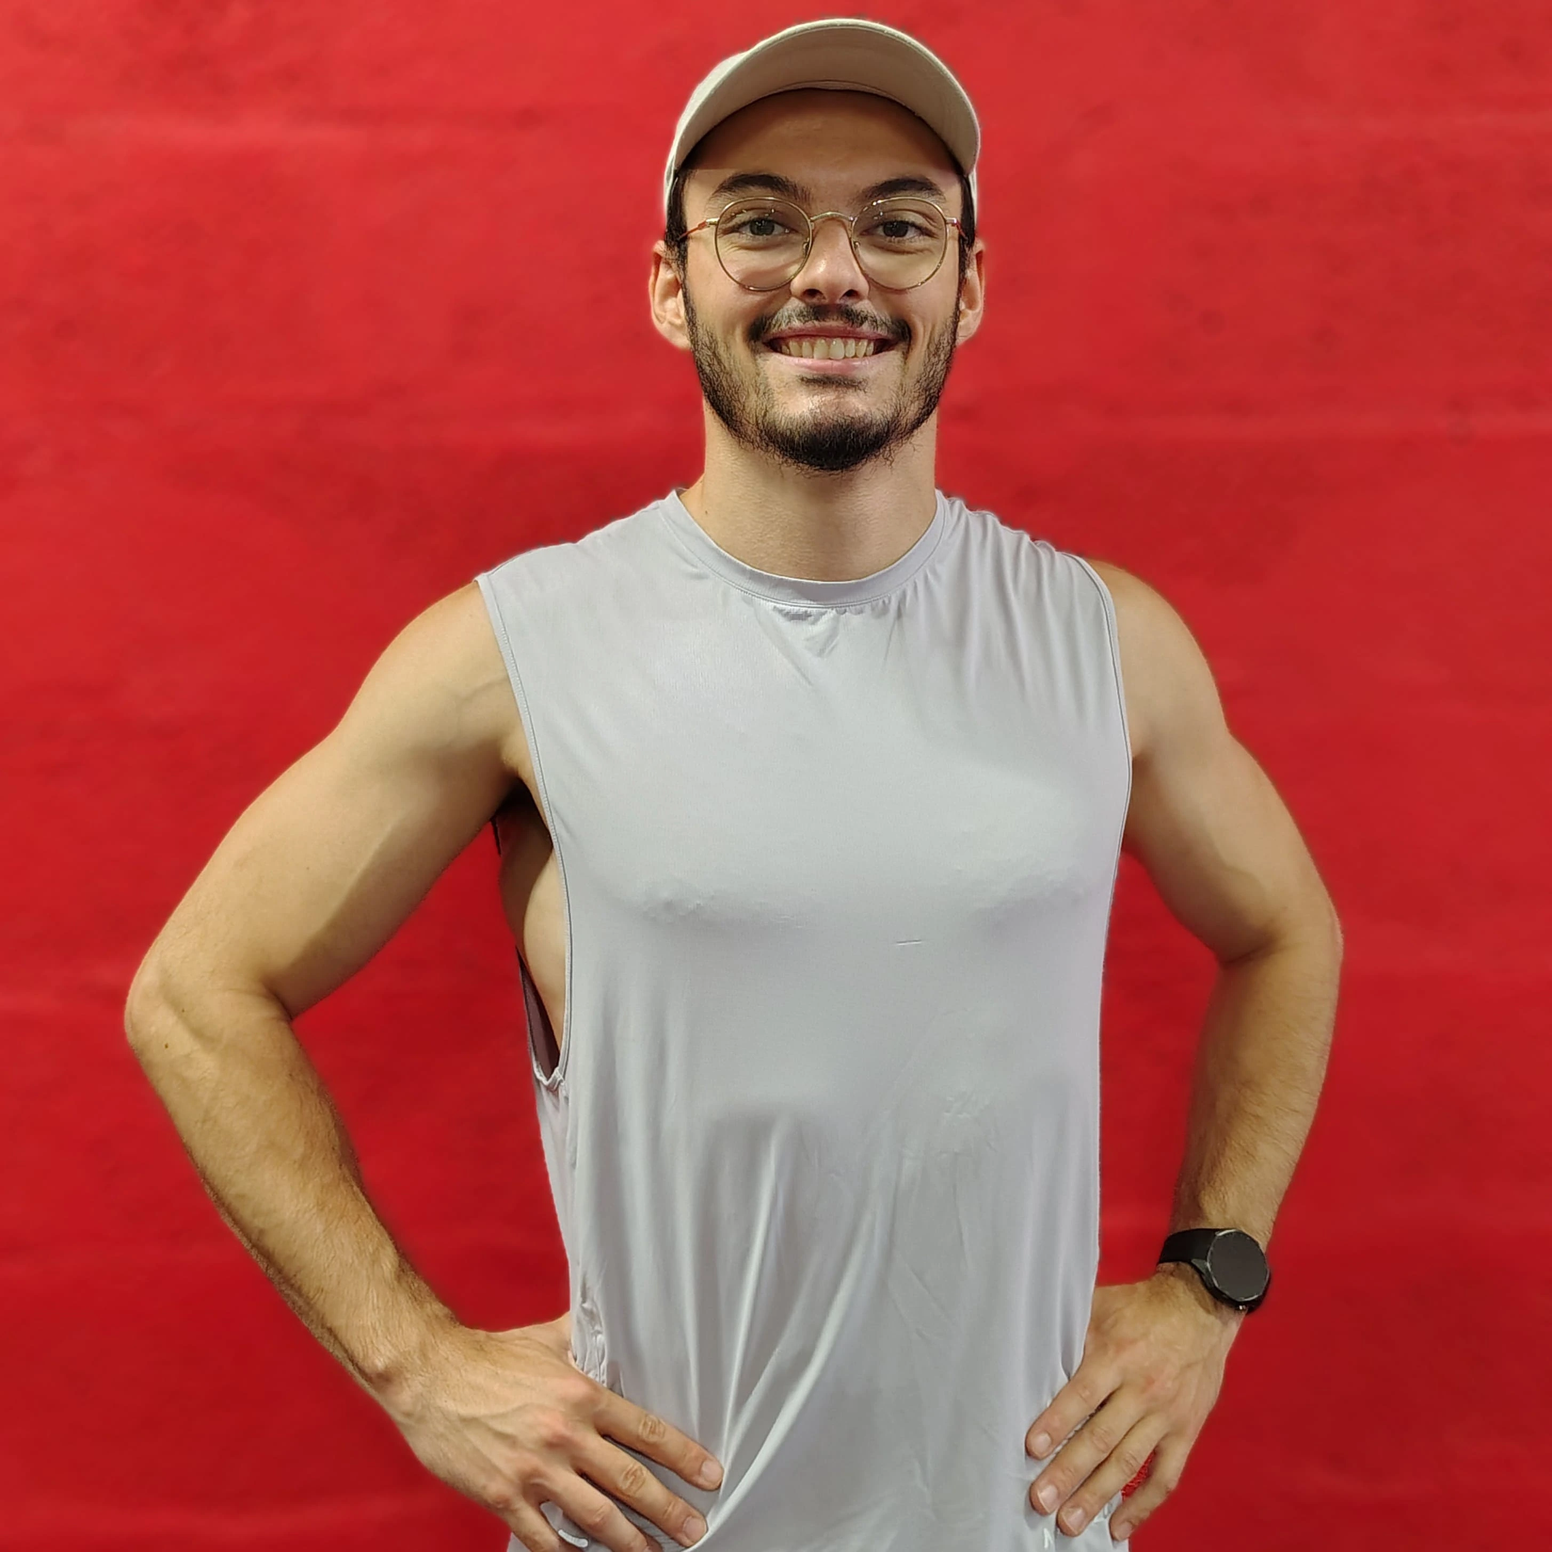
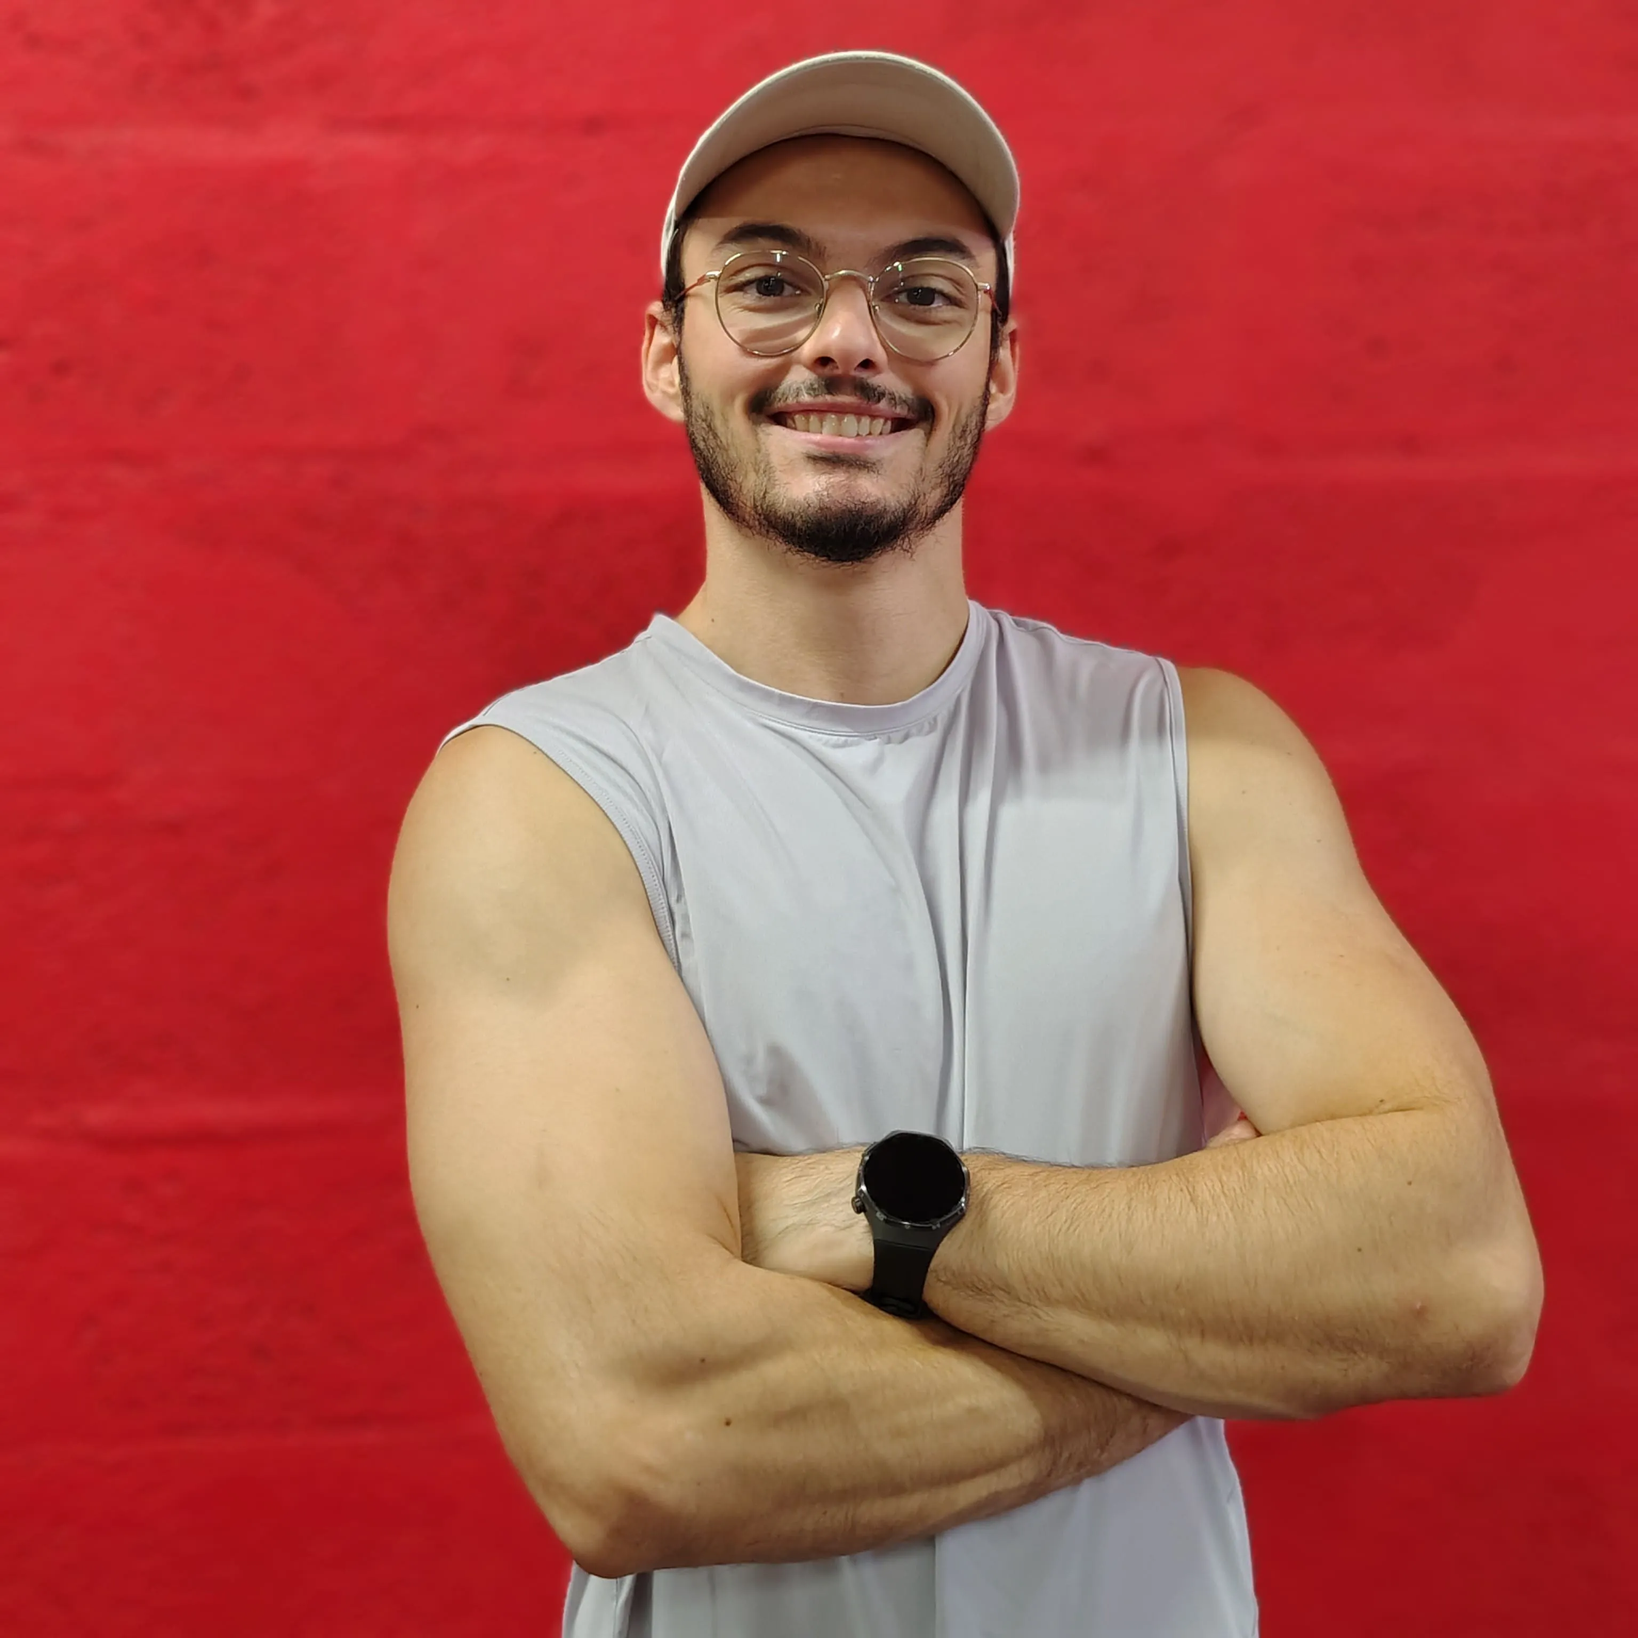
Changement image + mentions légale +

diff --git a/src/views/Propositions.vue b/src/views/Propositions.vue
@@ -2,7 +2,7 @@
   <section
     class="relative w-full min-h-[50vh] flex flex-col justify-center items-center py-12 text-center overflow-hidden">
     <div class="absolute inset-0 z-0">
-      <img src="/hero/hero3.webp" alt="" class="w-full h-full object-cover" fetchpriority="high"/>
+      <img src="/hero/hero3.webp" alt="" class="w-full h-full object-cover" fetchpriority="high" />
       <div class="absolute inset-0 bg-black/70 backdrop-blur-sm"></div>
     </div>
 
@@ -23,16 +23,18 @@
 
         <div class="space-y-6">
           <div v-for="service in categorie.services" :key="service.title"
-            class="bg-icemint flex items-stretch rounded-2xl shadow-xl/20 overflow-hidden"
-            :class="{ 'flex-row-reverse': service.globalIndex % 2 !== 0 }">
+            class="bg-icemint flex flex-col-reverse rounded-2xl shadow-xl/20 overflow-hidden md:items-stretch"
+            :class="service.globalIndex % 2 === 0 ? 'md:flex-row' : 'md:flex-row-reverse'">
+
             <div class="flex-1 flex flex-col text-left space-y-2 p-5 min-w-0">
               <h4 class="font-zalando font-medium text-lg lg:text-3xl text-ink leading-tight">{{ service.title }}</h4>
               <p class="font-zalando text-sm lg:text-lg text-ink/90 leading-relaxed">{{ service.description }}</p>
             </div>
 
-            <div class="w-24 sm:w-32 md:w-60 shrink-0"
-              :class="service.globalIndex % 2 === 0 ? 'border-l-2 border-molten' : 'border-r-2 border-molten'">
-              <img :src="service.image" :alt= "service.alt" class="w-full h-full object-cover">
+            <div class="w-full h-56 sm:h-64 md:h-auto md:w-60 shrink-0 border-b-2 border-molten md:border-b-0"
+              :class="service.globalIndex % 2 === 0 ? 'md:border-l-2' : 'md:border-r-2'">
+              <img :src="service.image" :alt="service.alt" loading="lazy"
+                :style="{ objectPosition: service.position || 'center' }" class="w-full h-full object-cover">
             </div>
           </div>
         </div>
@@ -44,9 +46,12 @@
 
   <div class="px-4 py-8 md:py-12 max-w-4xl mx-auto w-full">
     <div class="py-8 px-4 md:py-12 md:px-8 rounded-xl shadow-xl/30 bg-transparent">
-      <h4 class="font-zalando font-bold text-2xl md:text-3xl text-center mb-5 text-ink"> Prêt à passer au niveau supérieur ? </h4>
-      <p class="font-zalando text-md md:text-3xl text-center mb-8 text-ink">Je suis là pour vous accompagner dans votre parcours ! <br/>
-        À chaque profil correspond une méthode et un rythme. Découvrez mes différentes offres pour trouver l'accompagnement idéal
+      <h4 class="font-zalando font-bold text-2xl md:text-3xl text-center mb-5 text-ink"> Prêt à passer au niveau
+        supérieur ? </h4>
+      <p class="font-zalando text-md md:text-3xl text-center mb-8 text-ink">Je suis là pour vous accompagner dans votre
+        parcours ! <br />
+        À chaque profil correspond une méthode et un rythme. Découvrez mes différentes offres pour trouver
+        l'accompagnement idéal
         et adapté à vos objectifs.</p>
 
       <div class="flex justify-center">
@@ -69,19 +74,19 @@ const categories = [
         title: "Perte de poids",
         description: "Améliorer sa santé, son énergie et son bien-être en réduisant progressivement l'excès de poids de façon saine et durable.",
         image: "/image/squat2.webp",
-        alt:"Une personne en surpoids qui fait des squats"
+        alt: "Une femme qui fait des squats"
       },
       {
         title: "Activité physique adaptée (APA)",
         description: "Utiliser le mouvement comme outil de prévention, de rééducation, de maintien de l'autonomie et d'amélioration du bien-être, grâce à des exercices spécifiquement adaptés à chaque personne.",
-        image: "/image/etirement.webp",
-        alt:"Une femme qui fait des étirements"
+        image: "/image/APA.webp",
+        alt: "Le coach Lenny qui fait des pompes"
       },
       {
         title: "Renforcement du corps",
         description: "Développer et entretenir l'activité musculaire afin d'améliorer la silhouette, la posture, la stabilité et les capacités fonctionnelles au quotidien.",
-        image: "/image/test.webp",
-        alt:"Homme prenant du repos après une séance de sport intense"
+        image: "/image/renfo.webp",
+        alt: "Une femme qui fait des squats et un homme s'exerçant avec une corde"
       },
     ]
   },
@@ -93,19 +98,19 @@ const categories = [
         title: "Prise de masse",
         description: "Accompagner le développement musculaire en optimisant les méthodes d'entraînement, la progression des charges de travail et les habitudes favorisant la croissance musculaire.",
         image: "/image/grosMuscle.webp",
-        alt:"Homme qui contracte son biceps"
+        alt: "Un homme qui contracte son biceps"
       },
       {
         title: "Entraînement callisthénie",
         description: "La callisthénie est un modèle d'entraînement basé sur le poids du corps. À travers des exercices comme les tractions, les pompes, les dips ou le gainage, elle permet de développer sa force, le contrôle du corps et sa mobilité. Accessible à tous les niveaux, elle s’adapte à vos objectifs, que vous souhaitiez vous remettre en forme, gagner en force ou apprendre des mouvements plus avancés.",
         image: "/image/cali.webp",
-        alt:"Homme faisant des tractions"
+        alt: "Un homme qui fait de la callisthénie"
       },
       {
         title: "Préparation physique sport de force",
         description: "Fais évoluer ta force avec un plan d’entraînement sur mesure, adapté à ton sport et à tes objectifs. Que tu sois fan de power-lifting, de street-lifting, street-workout ou de musculation, chaque programme est conçu pour booster tes résultats tout en limitant les risques de blessure.",
         image: "/image/squat3.webp",
-        alt:"Personne qui se prépare à faire des squats"
+        alt: "Un homme qui se prépare à faire des squats"
       },
     ]
   }

diff --git a/src/views/Contact.vue b/src/views/Contact.vue
@@ -23,18 +23,18 @@
             <div
                 class="w-full max-w-2xl border-2 border-ink/20 rounded-2xl p-6 md:p-8 bg-transparent shadow-xl/30 space-y-6">
                 <div class="flex items-center gap-4 pb-4 border-b border-molten">
-                    <img src="/icon/Profile.svg" alt="" class="w-8 h-8 md:w-10 md:h-10 shrink-0" aria-hidden="true" />
+                    <img src="/icon/Profile.svg" alt="" class="w-8 h-8 md:w-10 md:h-10 shrink-0" aria-hidden="true" loading="lazy"/>
                     <span class="font-zalando font-bold text-xl md:text-2xl text-ink">Lenny Briey</span>
                 </div>
                 <div class="flex items-center gap-4 pb-4 border-b border-molten">
-                    <img src="/icon/Phone.svg" alt="" class="w-8 h-8 md:w-10 md:h-10 shrink-0" aria-hidden="true" />
+                    <img src="/icon/Phone.svg" alt="" class="w-8 h-8 md:w-10 md:h-10 shrink-0" aria-hidden="true" loading="lazy" />
                     <a href="tel:+33651316024"
                         class="font-zalando font-medium text-lg md:text-xl text-ink hover:text-molten transition-colors">
                         06 51 31 60 24
                     </a>
                 </div>
                 <div class="flex items-center gap-4 pb-4 border-b border-molten">
-                    <img src="/icon/EmailBlack.svg" alt="" class="w-8 h-8 md:w-10 md:h-10 shrink-0"
+                    <img src="/icon/EmailBlack.svg" alt="" class="w-8 h-8 md:w-10 md:h-10 shrink-0 " loading="lazy"
                         aria-hidden="true" />
                     <a href="mailto:lennybrieypro@gmail.com"
                         class="font-zalando font-medium text-lg md:text-xl text-ink hover:text-molten transition-colors break-all">
@@ -42,13 +42,13 @@
                     </a>
                 </div>
                 <div class="flex items-center gap-4 pb-4 border-b border-molten">
-                    <img src="/icon/Address.svg" alt="" class="w-8 h-8 md:w-10 md:h-10 shrink-0" aria-hidden="true" />
+                    <img src="/icon/Address.svg" alt="" class="w-8 h-8 md:w-10 md:h-10 shrink-0" aria-hidden="true" loading="lazy" />
                     <address class="font-zalando font-medium text-lg md:text-xl text-ink not-italic leading-tight">
                         19 Avenue Condorcet, Saint-Herblain 44800
                     </address>
                 </div>
                 <div class="flex items-start gap-4 pt-2">
-                    <img src="/icon/Clock.svg" alt="" class="w-8 h-8 md:w-10 md:h-10 shrink-0 mt-1"
+                    <img src="/icon/Clock.svg" alt="" class="w-8 h-8 md:w-10 md:h-10 shrink-0 mt-1" loading="lazy"
                         aria-hidden="true" />
                     <div class="w-full">
                         <h4

diff --git a/src/views/Confi.vue b/src/views/Confi.vue
@@ -37,9 +37,9 @@
                         <!-- À VÉRIFIER : une adresse liée à votre nom de domaine serait plus cohérente qu'une adresse Gmail -->
                         <li>
                             <strong>Adresse e-mail :</strong>
-                            <a href="mailto:lennybriey96@gmail.com"
+                            <a href="mailto:lennybrieypro@gmail.com"
                                 class="text-molten underline hover:text-molten/80 transition-colors">
-                                lennybriey96@gmail.com
+                                lennybrieypro@gmail.com
                             </a>
                         </li>
                         <li>
@@ -53,8 +53,8 @@
 
                     <p>
                         Pour toute question sur vos données ou pour exercer vos droits, écrivez à
-                        <a href="mailto:lennybriey96@gmail.com"
-                            class="text-molten underline hover:text-molten/80 transition-colors">lennybriey96@gmail.com</a>.
+                        <a href="mailto:lennybrieypro@gmail.com"
+                            class="text-molten underline hover:text-molten/80 transition-colors">lennybrieypro@gmail.com</a>.
                     </p>
                 </section>
 
@@ -416,8 +416,8 @@
 
                     <p>
                         Pour exercer ces droits, écrivez à
-                        <a href="mailto:lennybriey96@gmail.com"
-                            class="text-molten underline hover:text-molten/80 transition-colors">lennybriey96@gmail.com</a>.
+                        <a href="mailto:lennybrieypro@gmail.com"
+                            class="text-molten underline hover:text-molten/80 transition-colors">lennybrieypro@gmail.com</a>.
                         LennyFit vous répond dans un délai d'un mois et peut vous demander un justificatif
                         d'identité en cas de doute raisonnable.
                     </p>

diff --git a/src/views/Mentions.vue b/src/views/Mentions.vue
@@ -42,9 +42,9 @@
                         </li>
                         <li>
                             <strong>Adresse e-mail :</strong>
-                            <a href="mailto:lennybriey96@gmail.com"
+                            <a href="mailto:lennybrieypro@gmail.com"
                                 class="text-molten underline hover:text-molten/80 transition-colors">
-                                lennybriey96@gmail.com
+                                lennybrieypro@gmail.com
                             </a>
                         </li>
                         <li>
@@ -201,25 +201,7 @@
                 </section>
                 <section class="space-y-3">
                     <h2 class="font-krona text-xl sm:text-2xl text-ink border-b border-molten/20 pb-2">
-                        9. Médiation de la consommation
-                    </h2>
-
-                    <p>
-                        Lorsque les conditions légales applicables à l'activité l'exigent,
-                        le consommateur peut recourir gratuitement à un médiateur de la
-                        consommation compétent afin de rechercher une solution amiable
-                        à un éventuel litige.
-                    </p>
-
-                    <p>
-                        Les coordonnées du médiateur de la consommation dont relève LennyFit
-                        seront indiquées sur le site et dans les documents contractuels
-                        concernés dès lors que cette obligation est applicable.
-                    </p>
-                </section>
-                <section class="space-y-3">
-                    <h2 class="font-krona text-xl sm:text-2xl text-ink border-b border-molten/20 pb-2">
-                        10. Modification des mentions légales
+                        9. Modification des mentions légales
                     </h2>
 
                     <p>

diff --git a/index.html b/index.html
@@ -2,18 +2,14 @@
 <html lang="fr">
   <head>
     <meta charset="UTF-8" />
-
-    <!-- Favicon & Identité -->
     <link rel="icon" href="/logos/Logo_ico_NO.svg" />
-    <link rel="apple-touch-icon" href="/logos/Logo_ico_NO.svg" />
+    <link rel="apple-touch-icon" href="/logos/Logo_ico_NO.png" />
 
     <meta name="viewport" content="width=device-width, initial-scale=1.0" />
 
-    <!-- Indexation & Robotique -->
     <meta name="robots" content="index, follow" />
     <meta name="googlebot" content="index, follow" />
 
-    <!-- SEO Titre & Description (Crucial pour Google) -->
     <title>LennyFit | Coach Sportif Personnel à Nantes & En Ligne</title>
 
     <meta
@@ -21,7 +17,6 @@
       content="Atteignez vos objectifs avec LennyFit, coach sportif à Nantes. Coaching individuel personnalisé en présentiel ou programme 100% en ligne pour des résultats durables !"
     />
 
-    <!-- Balises Open Graph / Facebook (Pour un superbe affichage lors des partages sur les réseaux ou SMS) -->
     <meta property="og:type" content="website" />
     <meta property="og:url" content="https://www.lennyfit.fr/" />
     <meta
@@ -34,7 +29,7 @@
     />
     <meta
       property="og:image"
-      content="https://www.lennyfit.fr/hero/hero1.webp"
+      content="https://www.lennyfit.fr/hero/hero0.webp"
     />
     <link rel="canonical" href="https://www.lennyfit.fr/" />
 
@@ -43,6 +38,7 @@
       src="https://consent.cookiebot.com/uc.js"
       data-cbid="a77cb1d3-d80a-4bfa-8a2b-2653f5e5e5f4"
       data-blockingmode="manual"
+      data-culture="FR"
       type="text/javascript"
     ></script>
   </head>

diff --git a/src/components/Footer.vue b/src/components/Footer.vue
@@ -8,7 +8,7 @@
       <div class="flex justify-center md:flex-col md:items-start space-y-4">
         <GoogleRatingWidget
           :rating="5"
-          :review-count="1"
+          :review-count="3"
           link="https://www.google.com/maps/place/LennyFit/@47.2383201,-1.6429067,12z/data=!3m1!4b1!4m6!3m5!1s0x2a6ab5f8560c691:0x1f5a6d95a661c95f!8m2!3d47.2382332!4d-1.5603346!16s%2Fg%2F11zxq84_jt?entry=ttu&g_ep=EgoyMDI2MDkyMS4wIKXMDSoASAFQAw%3D%3D"
         />
       </div>
@@ -30,7 +30,7 @@
           class="cursor-pointer hover:scale-110 transition-transform duration-200">
           <img src="/icon/facebookMoon.svg" alt="Facebook" class="w-12 h-12 md:w-20 md:h-20" />
         </a>
-        <a href="mailto:lennybriey96@gmail.com" aria-label="Envoyez-moi un e-mail"
+        <a href="mailto:lennybrieypro@gmail.com" aria-label="Envoyez-moi un e-mail"
           class="cursor-pointer hover:scale-110 transition-transform duration-200">
           <img src="/icon/emailMoon.svg" alt="E-mail" class="w-12 h-12 md:w-20 md:h-20" />
         </a>

diff --git a/src/views/Home.vue b/src/views/Home.vue
@@ -89,7 +89,7 @@
                             class="transform hover:scale-110 transition">
                             <img src="/icon/facebookMolten.svg" alt="Facebook" class="w-20 h-20 md:w-25 md:h-25" />
                         </a>
-                        <a href="mailto:lennybriey96@gmail.com" aria-label="E-mail"
+                        <a href="mailto:lennybrieypro@gmail.com" aria-label="E-mail"
                             class="transform hover:scale-110 transition">
                             <img src="/icon/emailMolten.svg" alt="E-mail" class="w-20 h-20 md:w-25 md:h-25" />
                         </a>

diff --git a/src/components/Navbar.vue b/src/components/Navbar.vue
@@ -1,7 +1,7 @@
 <template>
     <nav class="w-full sticky top-0 z-40 bg-moon text-ink border-b border-gray-100 shadow-md"
         aria-label="Barre de navigation">
-        <div class="w-full mx-auto px-4 py-3 lg:px-8 lg:py-4 flex items-center justify-between">
+        <div class="w-full mx-auto px-4 py-3 lg:px-6 xl:px-8 lg:py-4 flex items-center justify-between gap-4">
             <router-link to="/" class="tracking-tighter shrink-0">
                 <img src="/logos/Logo_secondaire_NO.svg" alt="Logo LennyFit" class="w-40 md:w-48 lg:w-70 h-auto ">
             </router-link>

diff --git a/src/views/Presentation.vue b/src/views/Presentation.vue
@@ -136,7 +136,7 @@
             class="transform hover:scale-110 transition">
             <img src="/icon/facebookMolten.svg" alt="Facebook" class="w-20 h-20 md:w-25 md:h-25" />
         </a>
-        <a href="mailto:lennybriey96@gmail.com" aria-label="Envoyer un e-mail"
+        <a href="mailto:lennybrieypro@gmail.com" aria-label="Envoyer un e-mail"
             class="transform hover:scale-110 transition">
             <img src="/icon/emailMolten.svg" alt="E-mail" class="w-20 h-20 md:w-25 md:h-25" />
         </a>

diff --git a/src/views/Formules.vue b/src/views/Formules.vue
@@ -3,7 +3,7 @@
         class="relative w-full min-h-[50vh] flex flex-col justify-center items-center py-12 text-center overflow-hidden">
 
         <div class="absolute inset-0 z-0">
-            <img src="/hero/hero4.webp" alt="" class="w-full h-full object-cover" fetchpriority="high"/>
+            <img src="/hero/hero4.jpg" alt="" class="w-full h-full object-cover" fetchpriority="high"/>
             <div class="absolute inset-0 bg-black/50 backdrop-blur-sm"></div>
         </div>
 

diff --git a/src/components/GoogleRatingWidget.vue b/src/components/GoogleRatingWidget.vue
@@ -55,7 +55,7 @@ import { computed } from 'vue'
 
 const props = defineProps({
   rating: { type: Number, default: 5 },
-  reviewCount: { type: Number, default: 1 },
+  reviewCount: { type: Number, default: 3 },
   link: { type: String, default: 'https://www.google.com/maps/place/LennyFit/@47.2383201,-1.6429067,12z/data=!3m1!4b1!4m6!3m5!1s0x2a6ab5f8560c691:0x1f5a6d95a661c95f!8m2!3d47.2382332!4d-1.5603346!16s%2Fg%2F11zxq84_jt?entry=ttu&g_ep=EgoyMDI2MDkyMS4wIKXMDSoASAFQAw%3D%3D' },
 })
 
